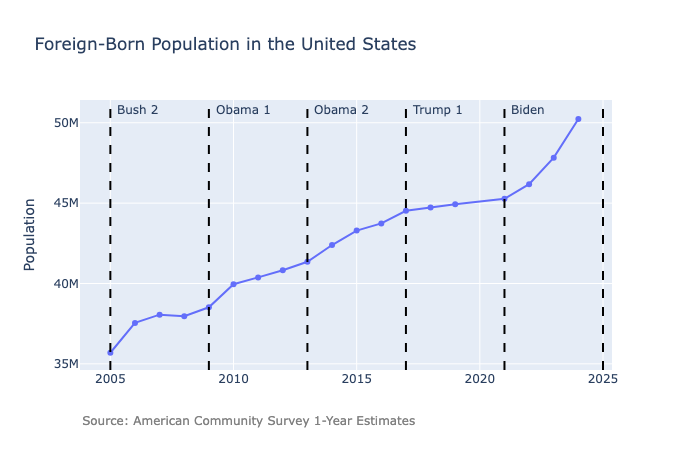
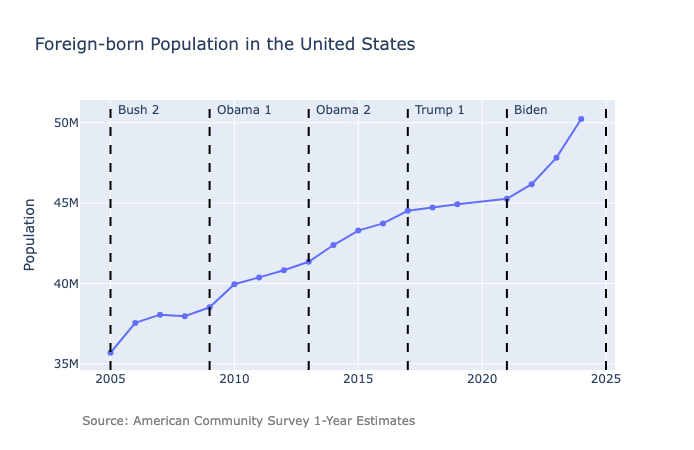
Update README

diff --git a/README.md b/README.md
@@ -1,14 +1,20 @@
 # acs-nativity
 
-A lightweight Python library for retrieving and visualizing historical ACS 1-Year nativity data for the United States and other Census geographies.
+`acs-nativity` is a Python package for analyzing immigration trends from the American Community Survey (ACS) as a time series. It provides a simple interface for downloading and visualizing data on the native-born and foreign-born population.
 
-It provides tools to examine:
+A key feature of the package is that it returns the data as a historical time series covering the full span of ACS 1-year estimates (2005-2024). Under the hood, the package harmonizes two ACS tables - `B05002` (2005-2008) and `B05012` (2009 onward) - so users receive a single consistent dataset covering the entire period. The Census Bureau did not release ACS 1-year estimates in 2020, so that year is omitted from the series. The 2025 ACS 1-year estimates are expected to be released in September 2026.
 
-  - The size of the foreign-born population
-  - Year-over-year changes in that population
-  - Trends at national, state, county, or city levels
+The ACS 1-year estimates are available for many geographies across the United States. As the Census Bureau explains:
 
-Data comes from the U.S. Census Bureau’s American Community Survey (ACS) 1-Year Estimates.
+> The ACS 1-year estimates are available for the nation, all states, the District of Columbia, Puerto Rico, all congressional districts and metropolitan statistical areas, and all counties and places (i.e., towns or cities) with populations of 65,000 or more.
+
+`acs-nativity` makes it easy to work with nativity data for any geography supported by the ACS 1-year estimates.
+
+The package exposes three functions:
+
+  * `get_nativity_timeseries()` - Downloads ACS nativity data and returns a dataframe covering all available ACS 1-year estimates for the given geography.
+  * `plot_nativity_timeseries()` - Creates a time series visualization of nativity data.
+  * `plot_nativity_change()` - Creates a bar chart showing the year-to-year change in a nativity measure.
 
 ## Installation
 
@@ -27,29 +33,30 @@ from acs_nativity import (
     plot_nativity_change,
 )
 
-# Retrieve national data
 df = get_nativity_timeseries(us="*")
-
-# Plot total foreign-born population
-plot_nativity_timeseries(
-    df,
-    column="Foreign-born",
-    title="Foreign-Born Population in the United States",
-)
+df.head(1)
 ```
+```text
+   Name           Year  Total      Native     Foreign-born  Percent Foreign-born
+0  United States  2005  288378137  252688295  35689842      12.376057
+```
+The parameter `us="*"` tells `get_nativity_timeseries` to return data for the entire country. The key columns are `Total`, `Native`, `Foreign-born` and `Percent Foreign-born`. Those columns are provided for all geographies.
 
-![Foreign-Born Population](images/nativity_us.png)
-
+To plot a time series of the dataframe, call `plot_nativity_timeseries` and specify the column you want to chart. Note how most of the chart details (ex. title, axis labels) are handled automatically, and that annotations are added to show when presidential administrations changed.
 ```python
-# Plot year-over-year change
-plot_nativity_change(
-    df,
-    column="Foreign-born",
-    title="Change in the US Foreign-Born Population",
-)
+plot_nativity_timeseries(df, column="Foreign-born")
+```
+ ![Foreign-Born Population](images/nativity_us.png)
+The foreign-born population has increased steadily since 2005, with a particularly large increase during the Biden administration.
+
+Sometimes it is helpful to show the year-over-year changes instead of raw values. To do that, call `plot_nativity_change` with a dataframe and a column. 
+```python
+plot_nativity_change(df, column="Foreign-born")
 ```
 
 ![Year-over-Year Change](images/nativity_us_diff.png)
+
+Here we can see that the only year when the foreign-born population decreased was 2008.
 
 ## Learning More
 
